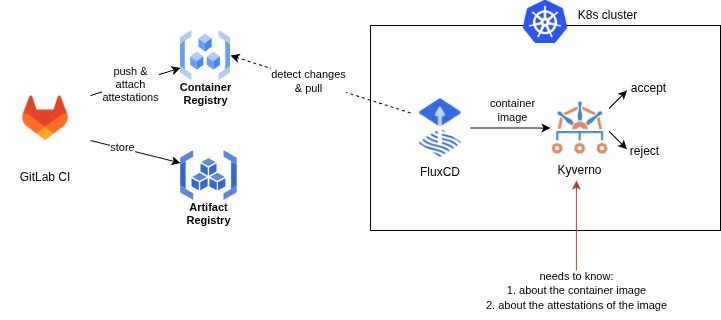
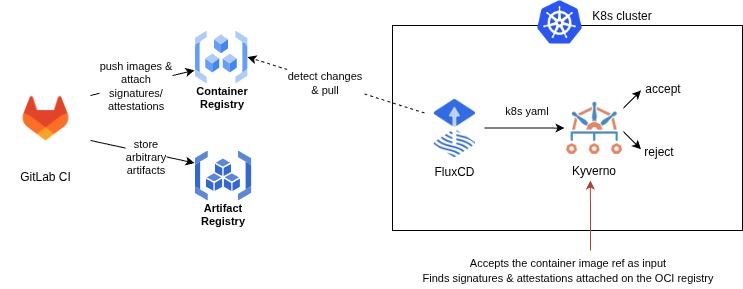
readme update

diff --git a/README.md b/README.md
@@ -5,46 +5,45 @@ The code provided in this repository has been created in the context of the SecC
 
 ## Description
 
-A demo pipeline for demonstrating DevPrivSecOps methodology with GitLab CI. Our focus on this repo is mainly on container signatures and artifact attestations and how we use them with STaaS within a pipeline, but a more complete pipeline is built to demonstrate how these attestations could fit within any pipeline.
+This repository features a pipeline for demonstrating DevPrivSecOps methodology with GitLab CI. Our focus on this repo is mainly on container signatures and artifact attestations with [STaaS](https://staas.excid.io), and how we integrate it within a pipeline. A complete DevSecOps pipeline is built to demonstrate how these security mechanisms could fit within any pipeline. Additionally, another pipeline is authored that uses `cosign` instead of `staas-cli` (the [client tool of STaaS](https://github.com/excid-io/staas-cli)).
 
-We use a demo application which is a very simple web app written in NodeJS with express-js (prints hello world in the browser). It is packed into a container and deployed on a machine which runs Kubernetes. 
+We use a demo application which is a very simple web app written in NodeJS with express-js (prints hello world in the browser). It is packed into a container and deployed as a Kubernetes Deployment. 
 
-Regarding continuous Integration (CI), this pipeline automates security checks in the software development lifecycle, integrating multiple stages of security testing. It includes Secret Scanning, SAST (Static Application Security Testing), SCA (Software Composition Analysis), image building, singing and scanning, and artifact attestations. Core tools like Gitleaks, Semgrep, Trivy, and SonarQube are used to detect vulnerabilities, misconfigurations, and secrets within the code and container images.
+Regarding **Continuous Integration (CI)**, this pipeline builds a container image and uploads it on GitLab's OCI registry, integrating at the same time multiple stages of security checks. It includes Secret Scanning, SAST (Static Application Security Testing), SCA (Software Composition Analysis), image building-singing-scanning and artifact attestations. Core tools like Gitleaks, Semgrep, Trivy, and SonarQube are used to detect vulnerabilities, misconfigurations, and secrets within the code and container images.
 
-continuous Deployment (CD) is done using FluxCD. We suppose there is a Kubernetes cluster setup somewhere, and we configure FluxCD to pull the container images from the repository and apply them into the cluster. Flux does not only monitor changes in the OCI registry, but also in k8s infrastructure files (.yaml).
+**Continuous Deployment (CD)** is done using FluxCD. We suppose there is a Kubernetes cluster setup somewhere, and we configure FluxCD to pull the container images from the repository and apply them into the cluster. Flux does not only monitor changes in the OCI registry, but also in k8s infrastructure files (.yaml).
 
-Continuous Deployment is not only about running the containers, but for our case, verification as well. When applying new images in the cluster, we want to verify their signatures, and their artifact attestations. If a malicious image/artifact tries to enter the cluster, during verification tampering should be detected, and thus, reject the changes.
+Continuous Deployment is **not only** about running the containers, but for our case, for **verification** as well. When applying new images in the cluster, we want to verify their signatures, and their artifact attestations. If a malicious image tries to enter the cluster, during verification tampering is detected, and thus, reject the changes (Shift-Left Security).
 
 This pipeline promotes a secure CI/CD process by detecting and mitigating security issues as early as possible (shift left security).
 
-**Note**: if you want to get the full benefits out of this repo you have to:
+**In order to emulate**: if you want to get the full benefits out of this repo you have to:
 1. follow along with the CI steps:
-    - setup a secure CI pipeline (decide on some platform which suits your needs and lay out the steps/jobs)
+    - setup a secure CI pipeline (decide on some platform which suits your needs and lay out the steps/jobs, here we implement GitLab CI pipelines)
     - build and **sign** your container images
-    - **use attestations** for specific artifacts (like images) which will be later on verified 
-    - store signatures and attestations
+    - **use attestations** for images which will be later on verified (on the Kubernetes end)
+    - store signatures and attestations on the OCI registry
     - we do not go over on setting up any CI environment, since we use GitLab hosted runners
 2. setup a CD procedure:
     - decide on your gitops strategy (here we do monorepo)
     - setup a k8s cluster (in our example we setup a cluster with `minikube`)
     - install `fluxcd` in the cluster
-    - installation steps on setting up minikube along with fluxcd and any other verification components are found under `opa/gatekeeper` and `kyverno` folders (we choose to implement Kyverno as a policy engine)
+    - installation steps on setting up minikube along with fluxcd and any other verification components are found under `opa/gatekeeper` and `kyverno` folders (we choose to implement Kyverno as a policy engine but we document other choices as well)
 
-Artifact attestations and signatures ensure the integrity of specific artifacts. We create [Provenance and SBOM](https://slsa.dev) statements and use [STaaS](http://staas.excid.io) to sign them. First, the container's provenance is produced, and then the SBOM. At the `attestations` step of the pipeline, these are signed by sending the digest of the two files mentioned to STaaS (we have a specific python script for that).
-
-At the same time, we sign containers again using STaaS, to ensure their integrity and authenticity.
+Artifact attestations and signatures ensure the integrity and authenticity of specific artifacts. We create container signatures plus [Provenance and SBOM](https://slsa.dev) attestations. STaaS is used to sign them. As mentioned above, [staas-cli](https://github.com/excid-io/staas-cli) is the client tool for STaaS platform. It comes with a container image containing all the runtime dependencies, which perfectly suits for GitLab CI setups (see jobs *staas-sign-container-image*, *staas-provenance*, *staas-sbom* in .gitlab-ci.yaml). 
 
 ## Folder structure
 
 - `apps`: contains all .yaml and `kustomization` files for our k8s cluster.
 - `assets`: images and other files useful for the repo.
-- `attacks`: a folder which contains another `.gitlab-ci.yaml` file. This file is prone to vulnerabilities. This is our way to demonstrate how artifact attestations and container signatures protect from specific attacks.
+- `attacks`: a folder which contains more `.gitlab-ci.yaml` files. These files are prone to vulnerabilities. This is our way to demonstrate how container signatures and attestations protect from specific attacks.
 - `clusters`: the folder that fluxcd monitors. The core file in there is `apps.yaml`. We modify this file to tell flux which kustomization to apply into the cluster.
-- `kyverno`: contains installation instructions for minikube and kyverno, as well as some policies that validate container signatures and attestations
+- `kyverno`: contains installation instructions for minikube and kyverno, as well as some policies that validate container signatures and attestations (STaaS and cosign versions exist)
 - `opa`: contains two subfolders (see the Verification chapter for more). These have to do with attestation and signature verification strategies.
 
+There are two `.gitlab-ci.yaml` files in the **root** directory. The main one uses staas-cli for signatures and attestations while the other one uses `cosign`. This is done for completeness.
 
-## CI/CD Steps
+## CI/CD Architecture
 
 ![alt text](assets/pipeline.png)
 
@@ -57,23 +56,25 @@ We briefly describe each step:
     - [njsscan](https://github.com/ajinabraham/njsscan): a static application testing (SAST) tool that can find insecure code patterns in your node.js applications 
 3. SCA: we use [retirejs](https://github.com/RetireJS/retire.js) to scan the nodejs app for vulnerable dependencies
 4. Build image: we build the image using [kaniko](https://github.com/GoogleContainerTools/kaniko), produce the provenance, and push it to GitLab's container registry
-5. Container signature: containers are signed directly after building using STaaS
+5. **Container signature**: containers are signed directly after building using STaaS
 6. Scan image: we use [Trivy](https://trivy.dev/latest/) to scan the container for vulnerabilities and produce the SBOM
-7. Attestations: here we take as input the Provenance and the SBOM and pass the to STaaS for signing. There is a python script in the repo which takes as input the file to attest, and right after it **verify** the attestation
-    - One job is to attest the Provenance
-    - The second job is to attest the SBOM
+7. **Attestations**: here we take as input the Provenance and the SBOM and pass the to STaaS (or cosign) for signing. There is one job for each case:
+    - The first attests the SLSA provenance
+    - The second attests the SBOM produced by trivy
 8. Deploy: supposing there is a K8s cluster running, [FluxCD](https://fluxcd.io/) monitors the OCI registry for changes and pulls the new image and applies it in the cluster
-9. Policy enforcement: supposing your preferred policy engine is installed and configured ([Kyverno](https://kyverno.io/) or [OPA Gatekeeper](https://kubernetes.io/blog/2019/08/06/opa-gatekeeper-policy-and-governance-for-kubernetes/)), the container image undergoes some checks and if successful gets applied, otherwise gets rejected
-<!-- 10. DAST: ZAP is used to for dynamic testing post-deployment -->
+9. **Policy enforcement**: supposing your preferred policy engine is installed and configured ([Kyverno](https://kyverno.io/) or [OPA Gatekeeper](https://kubernetes.io/blog/2019/08/06/opa-gatekeeper-policy-and-governance-for-kubernetes/)), the container image undergoes some checks and if successful gets applied, otherwise gets rejected
+10. DAST: ZAP is used to for dynamic testing post-deployment (it is implemented in this repo's code, but not applied as a post-deployment procedure)
 
 Once the image is uploaded onto the OCI registry (registry.gitlab.com), it is pulled by FluxCD, and applied into the cluster.
 
 ![alt text](/assets/cicd-aeros-kyverno.jpg)
 
 
-## Attestations and STaaS
+## Signatures Attestations and STaaS
 
-With artifact attestations we can ensure the integrity of our artifacts by creating the so called *attestation*. This is a **signed** document (signed using [Sigstore](https://www.sigstore.dev/)) which includes attributes for the subject(s) being signed. This is very good practice especially in CI/CD pipeline where signing **and verification** can be done automatically. 
+Container signatures ensure the integrity and authenticity of our images. A specific trusted identity is bound to the signature. The private key is disposed to mitigate risk (this is Sigstore's "keyless" signing mechanism). All signing events are registered on a public auditable log called [Rekor](https://rekor.sigstore.dev/). Upon **verification** we can see how and when signed the image, and verify its validity.
+
+With artifact attestations we can ensure the integrity of our artifacts by creating the so called *attestation*. This is a **signed** document which includes attributes for the subject(s) being signed. This is very good practice especially in CI/CD pipeline where signing **and verification** can be done automatically. 
 
 When verifying, we can also set some expectations. For example, is the container image version stored in the attestation the one I built?, or is the repository url stored in the attestation the real one - or a typosquatted one? In more complicated scenarios, we can have a policy engine (like Kyverno or OPA Gatekeeper) which contains our own policy, we feed in the attestation, and based on the policy it outputs true/false, or trust/no trust.
 
@@ -85,33 +86,19 @@ The scope of the project is to generate the provenance and SBOM attestation of a
 - For the SBOM this means, what are the dependencies of the codebase/container image
 - For the signature this means, who and when signed the image (ensures integrity and authenticity) 
 
-In order to create the attestation for this provenance we use STaaS, a Software Transparency service. Using the script `staas-upload.py` we send one digest for the provenance file and one for the SBOM to STaaS, and for each one of them it signs the digest digest.
+In order to create the attestation for this provenance we use STaaS, a Software Transparency service. Using the `staas-cli` tool we send one *digest* of the artifacts we want to sign to STaaS, and it returns a Sigstore bundle (Rekor response + signature + short-lived certificate).
 
 ![alt text](assets/diagram.jpg)
 
-Note: we use a premade image that contains the STaaS client and its required runtime dependencies (see jobs *staas-sign-container-image*, *staas-provenance*, *staas-sbom*).
-
-
-<!-- ## Project Components
-
-Here we outline what components we used for running this PoC.
-
-1. **GitLab**
-    - We use GitLab to upload our code and version control it online.
-2. **GitLab CI**
-    - We use GitLab CI to run our DevPrivSecOps pipelines. We use the GitLab hosted runners (we do not install our own) to execute the pipeline.
-3. **STaaS**
-    - We use STaaS to sign our documents. -->
-
 ## Attack scenarios
 
-In this repo we present some attack scenarios. See `README.ATTACKS.md` for more.
+In this repo we present some attack scenarios. See `attacks` folder for more.
 
 ## Verification
 
-In order to verify signatures and attestations, either Kyverno or OPA Gatekeeper can be used. We are most intrested in verifying these, within the context of a Kubernetes cluster. Kyverno is the predominant policy engine for Kubernetes. OPA Gatekeeper is also a good option, but does not offer the same range of capabilities as Kyverno (even though it is powerful). 
+In order to verify signatures and attestations, either Kyverno or OPA Gatekeeper can be used. Since we deal with container images we are most intrested in verifying these within the context of a Kubernetes cluster. Kyverno is the predominant policy engine for Kubernetes. OPA Gatekeeper is also a good option, but does not offer the same range of capabilities as Kyverno (even though it is powerful). 
 
-Under the folder `kyverno` we explain how to use kyverno and provide some policies. This scenario is of most interest, because during Continuous Deployment we can verify our requirements on the fly and, exactly pre-deployment, reject malicious images.
+Under the folder `kyverno` we explain how to use kyverno and provide some policies. This scenario is of most interest, because during Continuous Deployment we can verify our requirements on the fly and, exactly pre-deployment, reject malicious/non-compliant images.
 
 Under the folder `opa` we have two distinct cases of verification.
 1. One under `standalone` folder
@@ -120,6 +107,8 @@ Under the folder `opa` we have two distinct cases of verification.
 The first one is about using a standalone instance of OPA to verify attestations, and some Rego policies accompanying it. This may - or may not - be suitable for CD cases (in reality, it is not the best option).
 
 The second one is about using OPA Gatekeeper as a K8s component for continuous deployment cases, where conitnuous verification is also required.
+
+We implement Kyverno since it offers a robust and tested support for Sigstore and custom Sigstore setups (like STaaS). 
 
 ## Self Hosting
 
@@ -136,3 +125,7 @@ sudo gitlab-runner run
 ```
 
 Match the settings to your preferences and security requirements.
+
+## Related posts
+
+1. [GitLab Artifact Attestations with STaaS](https://medium.com/@excid/gitlab-artifact-attestations-with-staas-809b4fb5a9fc)
